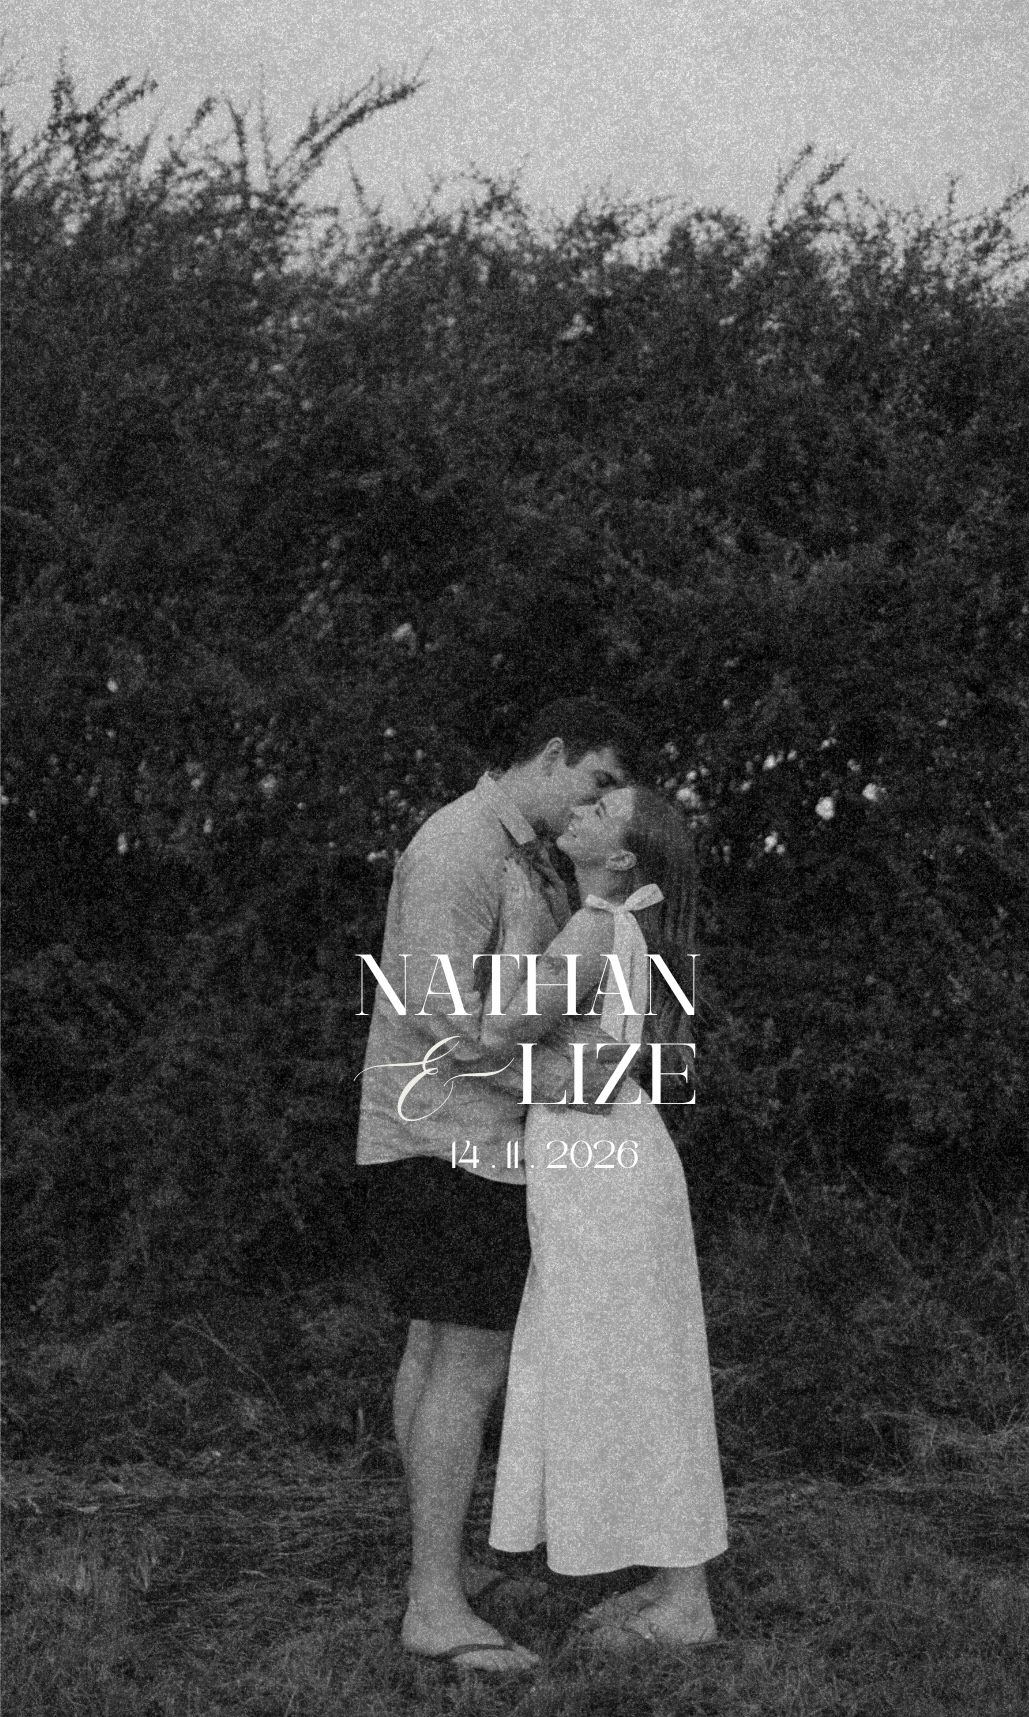
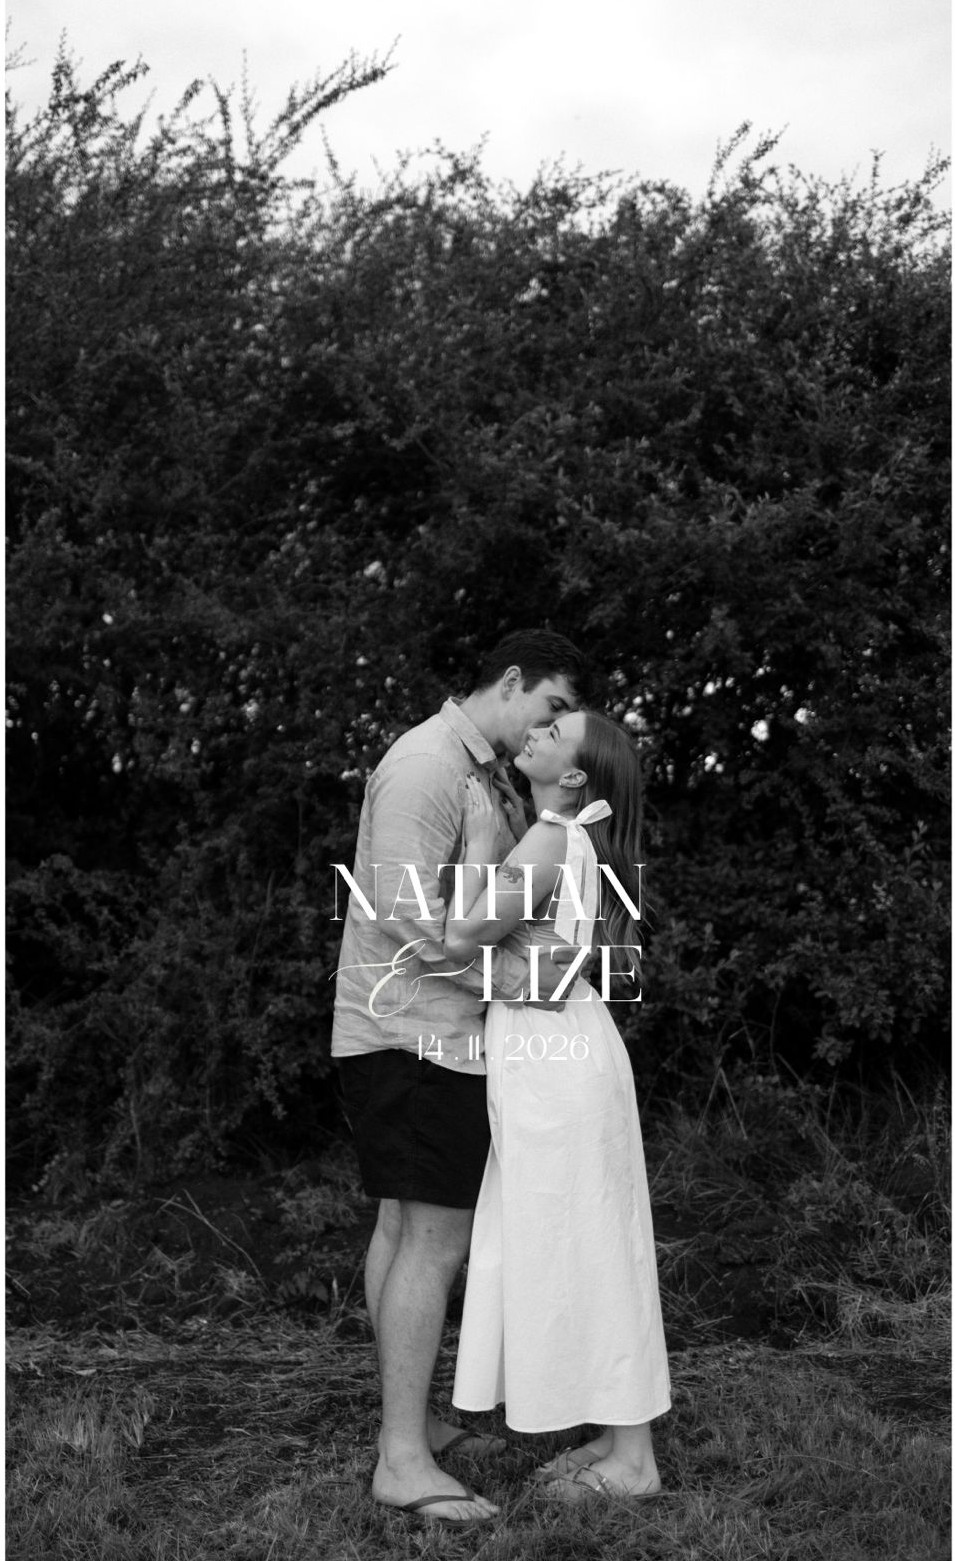
Updates

diff --git a/index.html b/index.html
@@ -73,24 +73,6 @@
 
     <div class="section-divider"></div>
 
-    <!-- Our Story Section -->
-    <section id="story" class="story fade-in-section">
-        <div class="story-bg">
-            <img src="./images/story.png" alt="Zandvliet Wine Estate">
-        </div>
-        <div class="story-overlay">
-            <div class="story-left">
-                <h2>OUR<br>LOVE<br>STORY</h2>
-            </div>
-            <div class="story-right">
-                <p>Daar is baie stories oor krulhaar seuntjies en blonde lapoppe. Maar hierdie een is dalkies net sover my gunsteling. En nou? Nou is dit tyd vir die lugkasteel-sprokiesverhaal oomblik met die wit rok wat bloos as die pak vir haar glimlag oor die kansel. Ons weet mos fluit-fluit is eintlik net die begin…</p>
-                <p>I’ve heard a lot of stories of little boys with curly mops of hair and green-eyed bandits. But so far this one, has been my favourite. And now? Now it’s time for the fairytale moment where the white frock finds herself blushing into the eyes of a dashingly handsome suit and she knows that ever-after is only just the beginning.</p>
-            </div>
-        </div>
-    </section>
-
-    <div class="section-divider"></div>
-
     <!-- Countdown Section -->
     <section class="countdown-section fade-in-section">
         <div class="container">
@@ -104,6 +86,24 @@
                 <div class="countdown-item"><span id="seconds">00</span><small>Seconds</small></div>
             </div>
             <a href="#rsvp" class="cta-button">RSVP Now</a>
+        </div>
+    </section>
+
+    <div class="section-divider"></div>
+
+    <!-- Our Story Section -->
+    <section id="story" class="story fade-in-section">
+        <div class="story-bg">
+            <img src="./images/story.jpg" alt="Zandvliet Wine Estate">
+        </div>
+        <div class="story-overlay">
+            <div class="story-right">
+                <p>Daar is baie stories oor krulhaar seuntjies en blonde lapoppe. Maar hierdie een is dalkies net sover my gunsteling. En nou? Nou is dit tyd vir die lugkasteel-sprokiesverhaal oomblik met die wit rok wat bloos as die pak vir haar glimlag oor die kansel. Ons weet mos fluit-fluit is eintlik net die begin…</p>
+                <p style="visibility: hidden;">s</p>
+                <p style="visibility: hidden;">s</p>
+                <p style="visibility: hidden;">s</p>
+                <p style="visibility: hidden;">s</p>
+            </div>
         </div>
     </section>
 
@@ -132,7 +132,7 @@
                     <div class="details-block">
                         <h3>Dress Code</h3>
                         <p>Formal Attire</p>
-                        <p class="dress-code-note">Please wear one of the following colours:</p>
+                        <p class="dress-code-note">These are our wedding colours if you would like to incorporate them into your attire:</p>
                         <div class="colour-palette">
                             <div class="colour-swatch" style="background-color: #4D5038;" title="Olive"></div>
                             <div class="colour-swatch" style="background-color: #858666;" title="Sage"></div>
@@ -198,18 +198,6 @@
                         <p>While we love your little ones, this will be an adults-only celebration. We hope you understand.</p>
                     </div>
                 </div>
-                <div class="faq-item">
-                    <button class="faq-question">What should I wear?</button>
-                    <div class="faq-answer">
-                        <p>Formal attire in the colours shown in the Details section above. Please avoid white or cream as those are reserved for the bride.</p>
-                    </div>
-                </div>
-                <div class="faq-item">
-                    <button class="faq-question">Will there be food and drinks?</button>
-                    <div class="faq-answer">
-                        <p>Yes! A full dinner and open bar will be provided. Please let us know of any dietary requirements in your RSVP.</p>
-                    </div>
-                </div>
             </div>
         </div>
     </section>
@@ -226,8 +214,7 @@
             </div>
 
             <div class="honeymoon-fund">
-                <h3>Honeymoon Fund</h3>
-                <p>If you'd prefer not to choose from the list, you're welcome to contribute to our honeymoon fund instead.</p>
+                <p>If you'd prefer not to choose from the list, you're welcome to contribute to our future home instead.</p>
                 <div class="bank-details">
                     <p><strong>Bank:</strong> Discovery Bank</p>
                     <p><strong>Account Type:</strong> Savings Account</p>

diff --git a/css/style.css b/css/style.css
@@ -343,19 +343,19 @@ a {
 .story-bg img {
     width: 100%;
     height: 100%;
-    object-fit:cover;
+    object-fit: cover;
+    object-position: center 70%;
     display: block;
-    filter: grayscale(100%);
 }
 
 .story-overlay {
     position: relative;
     z-index: 1;
     display: flex;
-    align-items: center;
-    justify-content: space-between;
-    min-height: 500px;
-    padding: 4rem 6rem;
+    align-items: flex-start;
+    justify-content: center;
+    min-height: 800px;
+    padding: 3rem 2rem 4rem;
 }
 
 .story-left {
@@ -365,34 +365,28 @@ a {
 .story-left h2 {
     font-family: var(--font-heading);
     font-size: 4rem;
-    color: #fff;
+    color: var(--clr-text);
     line-height: 1.1;
     font-weight: 400;
     text-transform: uppercase;
 }
 
 .story-right {
-    flex: 1;
-    padding-left: 4rem;
+    max-width: 600px;
+    text-align: center;
+    padding-top: 0;
 }
 
 .story-right p {
     font-size: 0.95rem;
     line-height: 1.8;
-    color: #fff;
+    color: var(--clr-text);
     margin-bottom: 1.5rem;
-    text-shadow: 0 1px 4px rgba(0, 0, 0, 0.7), 0 0 20px rgba(0, 0, 0, 0.4);
+    text-shadow: none;
 }
 
 .story-divider {
-    max-width: 100%;
-    height: 1px;
-    background-color: rgba(255, 255, 255, 0.6);
-    margin: 1.5rem 0;
-}
-
-.story-left h2 {
-    text-shadow: 0 2px 6px rgba(0, 0, 0, 0.6), 0 0 30px rgba(0, 0, 0, 0.3);
+    display: none;
 }
 
 /* ==========================================================================
